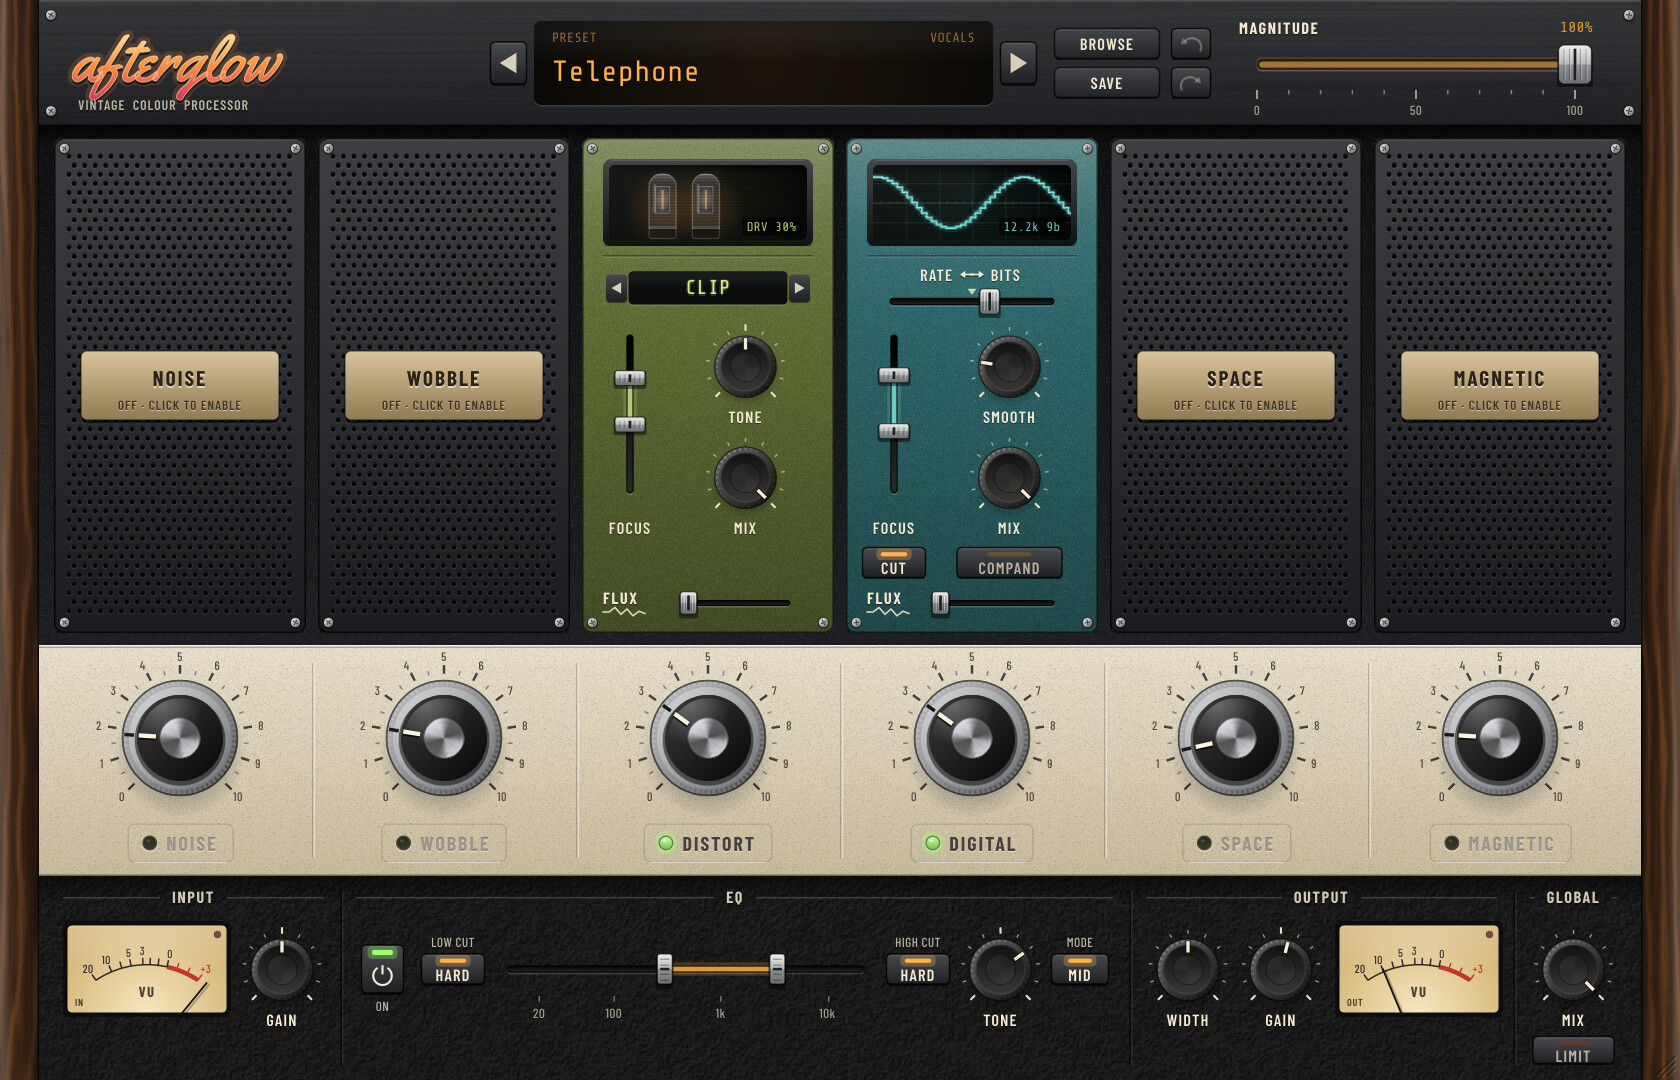
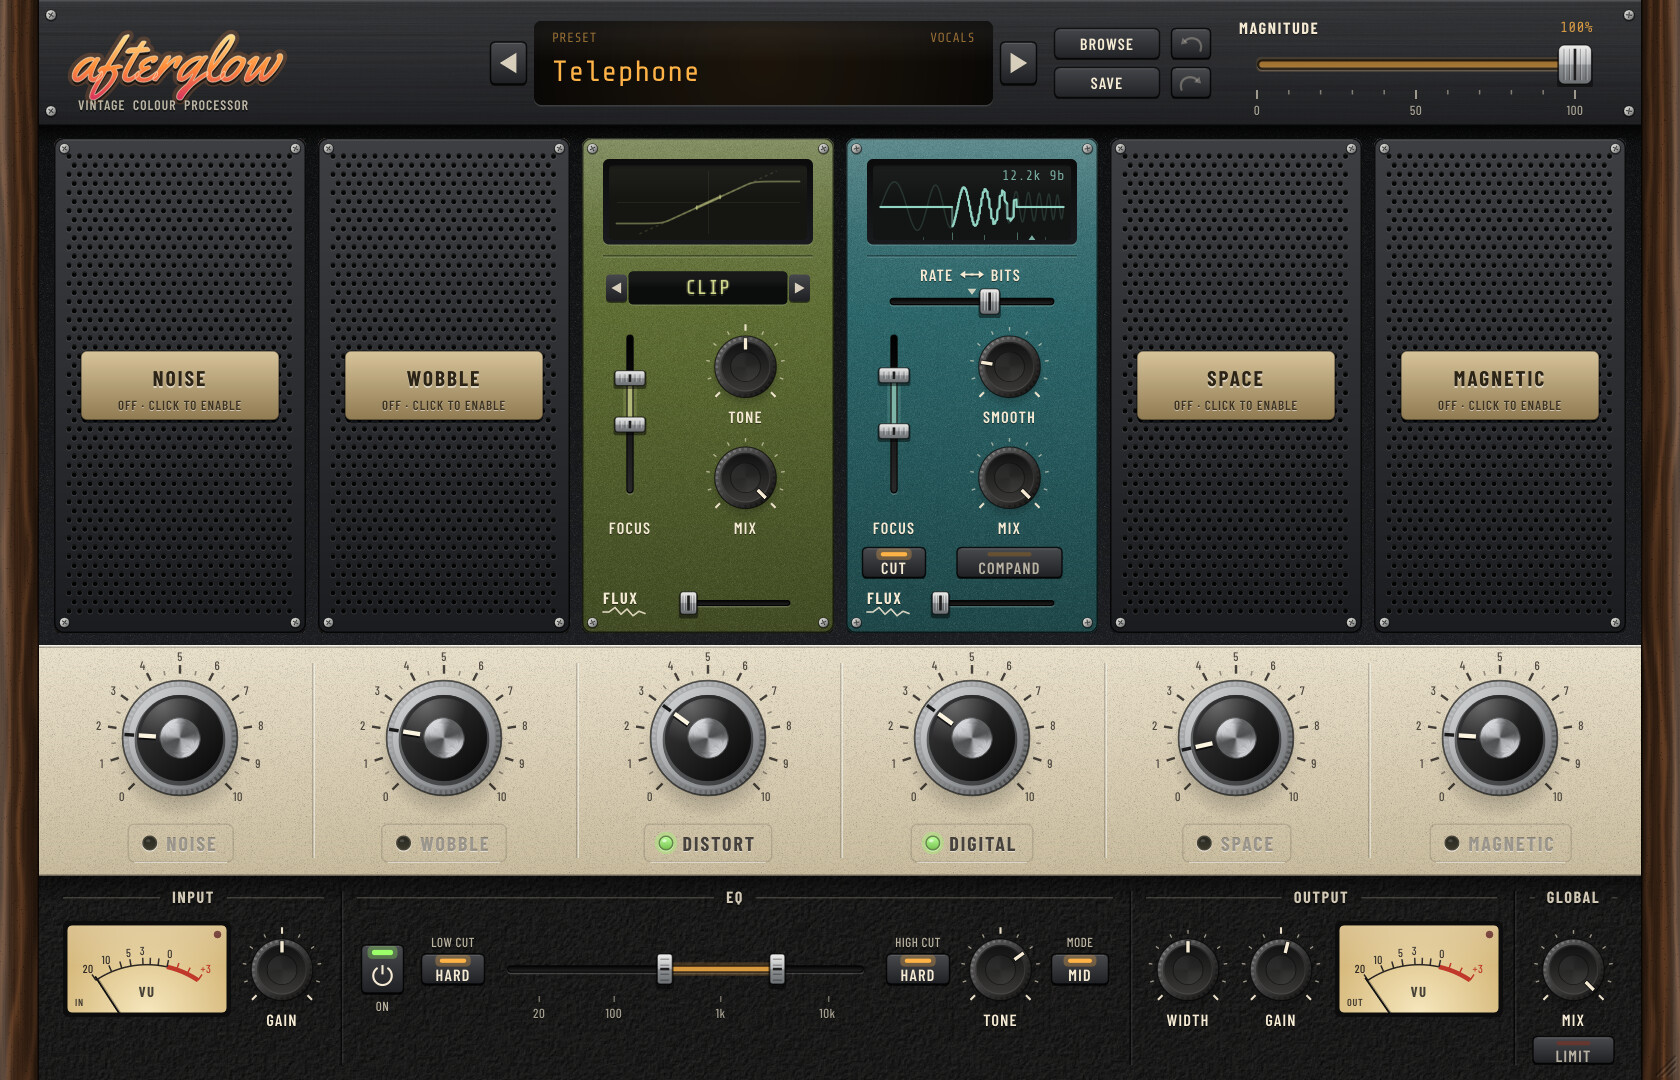
Displays: cache the Digital sweep, lighter Distort trace, new screenshots
- Digital renders its processed sweep once per change and scale
- Distort draws the newest 256 core samples (about 21 ms)
- Refresh the documentation screenshots, add display close-ups and a
  README table describing what each display shows

Claude-Session: https://claude.ai/code/session_01BxQ3X2xNnA1Pmqb9uAoVJ7

Changed region(s): [[0.3405, 0.1222, 0.65, 0.2139], [0.8048, 0.9167, 0.8357, 0.9472]]

diff --git a/source/ui/Visualisers.cpp b/source/ui/Visualisers.cpp
@@ -724,7 +724,7 @@ void DistortDisplay::drawLive (juce::Graphics& g)
     const auto intensity = liveIntensity() * (0.25f + 0.75f * param (ParamIDs::distortMix) * 0.01f);
     const auto& ring = telemetry.distortTransfer;
     const auto written = ring.written.load (std::memory_order_acquire);
-    const auto count = static_cast<int> (std::min<uint32_t> (written, 512));
+    const auto count = static_cast<int> (std::min<uint32_t> (written, 256)); // about 21 ms of the core's history
     if (count < 2 || intensity < 0.004f)
         return;
 
@@ -943,11 +943,28 @@ void DigitalDisplay::drawLive (juce::Graphics& g)
     if (sweep.empty() || intensity < 0.004f)
         return;
 
-    Beam beam;
-    beam.reference = 2.2f;
-    beam.floor = 0.35f;
-    beam.halo = false;
-    drawBeam (g, sweep.data(), static_cast<int> (sweep.size()), phosphor, intensity, beam);
+    // The sweep only changes with the converter settings, so it is rendered once into an image at device resolution
+    // and drawn with the current intensity.
+    const auto imageKey = sweepKey + "@" + juce::String (pixelScale);
+    if (imageKey != sweepImageKey || ! sweepImage.isValid())
+    {
+        sweepImageKey = imageKey;
+        sweepImage = juce::Image (juce::Image::ARGB, static_cast<int> (std::ceil (screenWidth * pixelScale)), static_cast<int> (std::ceil (screenHeight * pixelScale)), true);
+        juce::Graphics ig (sweepImage);
+        ig.addTransform (juce::AffineTransform::scale (pixelScale));
+        Beam beam;
+        beam.reference = 2.2f;
+        beam.floor = 0.35f;
+        beam.halo = false;
+        drawBeam (ig, sweep.data(), static_cast<int> (sweep.size()), phosphor, 1.0f, beam);
+    }
+
+    {
+        juce::Graphics::ScopedSaveState save (g);
+        g.setOpacity (juce::jlimit (0.0f, 1.0f, intensity));
+        g.setImageResamplingQuality (juce::Graphics::lowResamplingQuality);
+        g.drawImageTransformed (sweepImage, juce::AffineTransform::scale (1.0f / pixelScale));
+    }
 
     // Nyquist: where the sweep passes half the sample rate and aliasing begins, on the frequency scale.
     if (nyquistX > 0.0f)

diff --git a/source/ui/Visualisers.h b/source/ui/Visualisers.h
@@ -177,6 +177,8 @@ private:
     std::vector<juce::Point<float>> sweep;
     float nyquistX = -1.0f;
     bool reduced = false;
+    juce::Image sweepImage; // the processed sweep, rendered once per change and scale
+    juce::String sweepImageKey;
 };
 
 /** SPACE: a decay recorder. A faint guide shows the expected decay (pre-delay gap, build-up, then a straight fall

diff --git a/README.md b/README.md
@@ -23,8 +23,8 @@ early-sampler grit, vintage reverbs and worn-tape artefacts, all brought to life
 * **Presets**: 40 factory presets in 9 categories, user presets, a browser you can tweak while browsing
   (OK keeps, Cancel restores), a startup preset, and undo/redo.
 * **Skeuomorphic interface**: walnut cheeks, enamel faceplates, knurled knobs, illuminated nameplate switches, animated
-  glass displays with live readouts (noise oscilloscope, glowing valves, stepped samples, a reverb echogram and a
-  reel-to-reel transport) and perforated covers for switched-off modules. Resizable from 60 % to 220 %, sharp on high-DPI screens.
+  instrument displays drawn from live engine data (a noise-floor strip, a pitch recorder, a curve tracer, a converter
+  sweep, a decay recorder and a two-tone tape level recorder) and perforated covers for switched-off modules. Resizable from 60 % to 220 %, sharp on high-DPI screens.
 * **Quality**: every module is exactly transparent at 0 %, latency is reported and compensated, and the test suite
   covers null tests, latency, stability fuzzing, presets, calibration and aliasing. See
   [docs/RESEARCH.md](docs/RESEARCH.md) for the full RC-20 analysis, DSP design and measurements.
@@ -36,10 +36,26 @@ early-sampler grit, vintage reverbs and worn-tape artefacts, all brought to life
 | ![Switched-off modules](docs/images/modules-off.jpg) | ![Preset browser](docs/images/preset-browser.jpg) |
 | Switched-off modules sit behind perforated covers; click a cover or a nameplate to enable the module. | The preset browser can be used while audio plays; OK keeps the choice, Cancel restores the previous sound. |
 
-Module displays (each shows a live readout in the corner chip):
+Module displays. Each one is a small instrument that shows what its module is doing to the sound right now:
+
+| Display | What it shows |
+|---|---|
+| Noise | The real noise output scrolling by: crackle as spikes, hiss as a fringed band, hum as a solid band. |
+| Wobble | Pitch deviation in cents: the line is the slow wow, the band around it the flutter; stereo adds a second line. |
+| Distort | A curve tracer: the type's transfer curve, the part of it the signal has reached, and the live signal on it. |
+| Digital | A 20 Hz to 20 kHz test sweep through the real sample rate and bit depth, with the Nyquist point marked. |
+| Space | The expected decay (pre-delay, build-up, 60 dB fall, faster treble decay) with the measured tail after each note. |
+| Magnetic | A 1 kHz and a 10 kHz tone recorded on the worn tape: wear, flutter scallops, dropouts and treble loss. |
 
 ![Displays with tape settings](docs/images/displays-tape.jpg)
-![Displays with a plate reverb](docs/images/displays-plate.jpg)
+![Displays with the Destroyer preset](docs/images/displays-destroyer.jpg)
+
+Close-ups of the displays in different states:
+
+![Noise and Wobble states](docs/images/display-noise-wobble.png)
+![All eight Distort types](docs/images/display-distort-types.png)
+![Digital and Space states](docs/images/display-digital-space.png)
+![Magnetic states](docs/images/display-magnetic.png)
 
 Big knob row with the illuminated nameplate switches, and the master strip:
 
